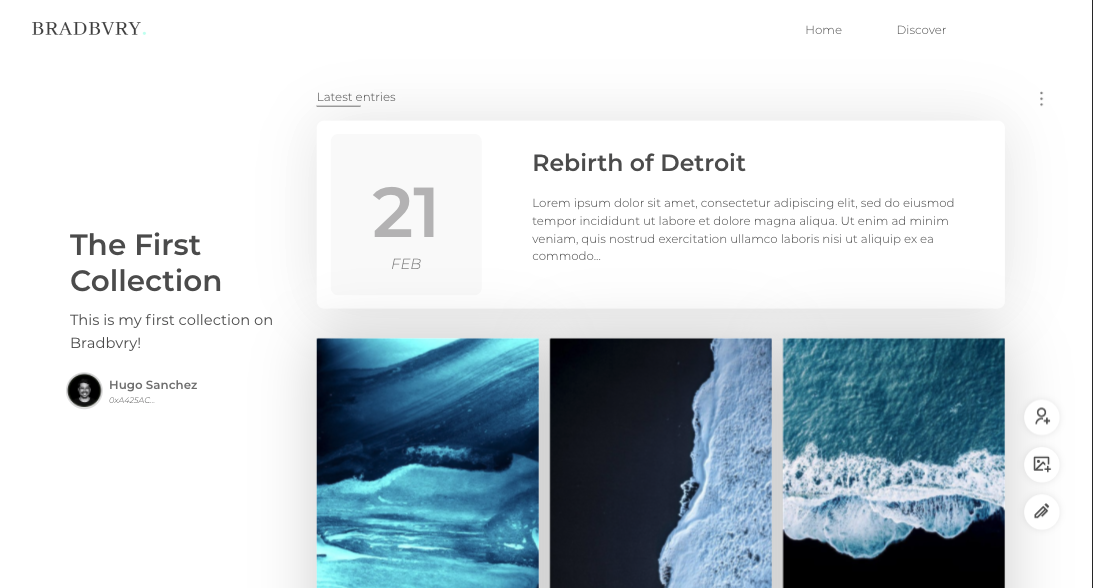
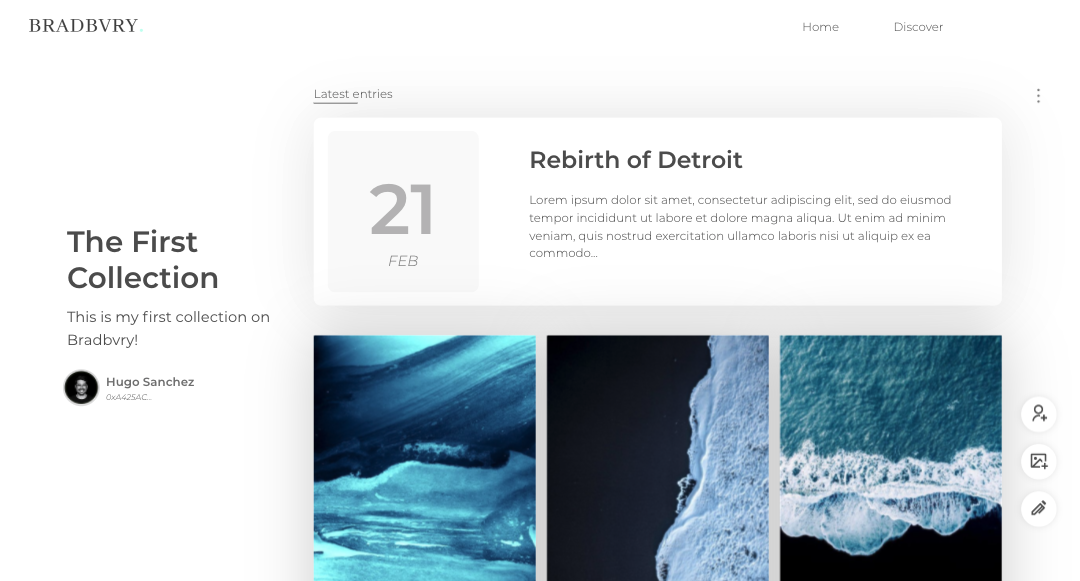
pre-pro

diff --git a/src/containers/LandingPage.js b/src/containers/LandingPage.js
@@ -14,6 +14,8 @@ const LandingPage = props => {
 
 	Mixpanel.track('LANDING_VISIT');
 
+	let width = window.innerWidth > 500
+
     return (
         <div>
             <Header />
@@ -27,7 +29,7 @@ const LandingPage = props => {
                         <p>
                             Bradbvry allows you to
 							<span className="bold"> own intimate collections </span>
-                            to store and share your digital creations. 
+                            to store and share your digital creations.
                         </p>
                     </div>
                     <div className="cta">
@@ -41,77 +43,45 @@ const LandingPage = props => {
                 </div>
             </section>
 
-            <section className="presentation section final">
-				<div className="intro-text section text description">
-					<p> <span className="bold">Bradbury is a web-based, personal text-editor that you really own, it's yours. </span>
-						In the future, you will also store and share memories, pictures, documents or any other
-						meaningful collection, on your terms. 
-					</p>
-				</div>
-				<div className="screenshot">
-					<img src={main} alt="matebook" />
-				</div>
+			
+				<section className="presentation section final">
+					<div className="intro-text section text description">
+						<p> This is where you<span className="bold"> store and share the things you want to keep forever. </span>
+							It's also a new way to connect and share online where users are in control. It feels<span className="bold"> intimate</span>, it's<span className="bold"> beatiful</span> and <span className="bold">decentralized. </span>
+							Try it out!
+						</p>
+					</div>
+					{
+						width ? 
+						<div className="screenshot">
+							<img src={main} alt="matebook" />
+						</div>
+						:
+						null
+	
+						}
+					
+				</section>
 				
-			</section>
+            
 
-			<section className="presentation section">
-				<div className="introduction section">
-					<div className="intro-text section">
-						<h1>It's private.</h1>
-						<p>
-							Your data is encrypted with keys that you control, and stored in IPFS. 
-							<span className="bold"> There is no way that we, or anyone else, can actually read any of your files</span> or entries.
-						</p>
-					</div>
-				</div>
-				<div className="cover section">
-					<img src={privacy} alt="matebook" />
-				</div>
-			</section>
+			
+				{
+					width ? 
+					<section className="presentation section final footer">
+						<div className="intro-text section text final footer">
+							<p>
+								This is Bradbvry's MVP, please use it with caution and at your own risk. 
 
-			<section className="presentation section">
-				<div className="introduction section">
-					<div className="intro-text section">
-						<h1>It's on your terms</h1>
-						<p>
-							<span className="bold">You get to choose who gets to see what. </span>  Keep your files private, share them with your loved ones or even make them public. 
-						</p>						
-					</div>
-				</div>
-				<div className="cover section">
-					<img src={terms} alt="matebook" />
-				</div>
-			</section>
+								Also, feel free to reach out with any feedback, bugs or petitions here: hugo@bradbvry.com. Thanks! :)
+							</p>
+						</div>
+					</section>
+					:
+					null
+				}
 
-			<section className="presentation section">
-				<div className="introduction section">
-					<div className="intro-text section">
-						<h1>And it's beautiful!</h1>
-						<p>
-							Most text editors and online tools are just too ugly. We're trying to build a place where you feel inspired to create.<span className="bold"> Simple. Elegant. Easy.</span>
-						</p>
-					</div>
-				</div>
-				<div className="cover section">
-					<img src={beautiful} alt="matebook" />
-				</div>
-			</section>
-
-			<section className="presentation section final">
-				<div className="intro-text section text final">
-					<p>
-						So far, Bradbvry is just an early experiment. We built it with the idea of exploring new digital interfaces for people to create, share and connect in new, much more deep and meaningful ways. 
-
-						Please, feel free to reach out with any feedback, bugs or petitions here: hugo@bradbvry.com. Thanks!
-					</p>
-
-					<p>
-						<span className="landing-footer-note">
-						*Ilustrations by Ouch.pics: https://icons8.com
-						</span>
-					</p>
-				</div>
-			</section>
+			
         </div>
     );
 }

diff --git a/src/App.css b/src/App.css
@@ -299,8 +299,8 @@
 }
 
 #Header-Image {
-  height: 1.8rem;
-  width: 10rem;
+  height: 1.4rem;
+  width: 8rem;
   position: fixed;
   top: 1.5rem;
   left: 2.5rem;
@@ -416,6 +416,19 @@ nav {
 	max-height: 100vh;
 }
 
+
+.intro-text.section.text.final{
+  width: 100%;
+  padding: 10%;
+  padding-top: 6%;
+	margin-top: 50px;
+}
+
+.intro-text.section.text.final p{
+  font-size: 14px;
+  font-weight: 300;
+}
+
 .introduction {
   flex: 1;
   padding-top: 15vh;
@@ -475,7 +488,17 @@ nav {
 	-webkit-text-fill-color: transparent;
 }
 
+.presentation.section.final.footer {
+  margin-top: 200px;
+  background-color: #fff;
+}
+
+.intro-text.section.text.final.footer {
+  background-color: #fff;
+}
+ 
 .intro-text.section.text.description {
+  padding: 10%;
 	margin-bottom: 10%;
 
 }
@@ -566,6 +589,8 @@ nav {
 	border-radius: 0.5vw;
 	animation: drop 1.5s ease;
 	box-shadow: 0 15px 25px rgba(0,0,0,0.2); 
+  
+
 }
 
 .screenshot img:hover {
@@ -609,6 +634,14 @@ nav {
     animation: drop 1.5s ease;
     box-shadow: 0 15px 25px rgba(0,0,0,0.2); 
   }
+
+  .screenshot img {
+    width: 90vw;
+    border-radius: 0.5vw;
+    animation: drop 1.5s ease;
+    box-shadow: 0 15px 25px rgba(0,0,0,0.2); 
+  }
+
 	.cta {
 		margin-top: 4vw;
 		padding: 10px 10px 10px 0px;
@@ -619,6 +652,20 @@ nav {
 	.cover img {
 		height: 60%;
 	}
+
+  .intro-text.section.text.description {
+    padding: 0%;
+    margin-bottom: 4%;
+  }
+  
+  .presentation.section.final.footer {
+    margin-top: 20px;
+    background-color: #fff;
+  }
+  
+  .intro-text.section.text.final.footer {
+    background-color: #fff;
+  }
 	.cover.section {
     padding-top: 5vh;
     max-height: 35vh;

diff --git a/src/components/common/Text.js b/src/components/common/Text.js
@@ -3,7 +3,7 @@ import {device} from '../../constants';
 
 const Text = styled.p`
     font-family: 'Montserrat';
-    font-size: ${props => props.fontWeight ? props.fontSize : '16px'};
+    font-size: ${props => props.fontWeight ? props.fontSize : '14px'};
     font-weight: ${props => props.fontWeight ? props.fontWeight : '300'};
     line-height: 1.5;
     text-align: ${props => props.textAlign ? props.textAlign : 'left'};

diff --git a/src/reducers/threadsReducer.js b/src/reducers/threadsReducer.js
@@ -13,7 +13,7 @@ import {
 const initialState = {
 
     itemsArray: [],           // Preview items (entries)
-    threadsArray: null,         // Array of user's threads
+    threadsArray: [],         // Array of user's threads
 	threadItems: [],          // Entries for a given thread (activeThread)
 	masterThreadID: null, 	  // String ID of master thread
     activeThread: null,       // Thread that the user has selected
